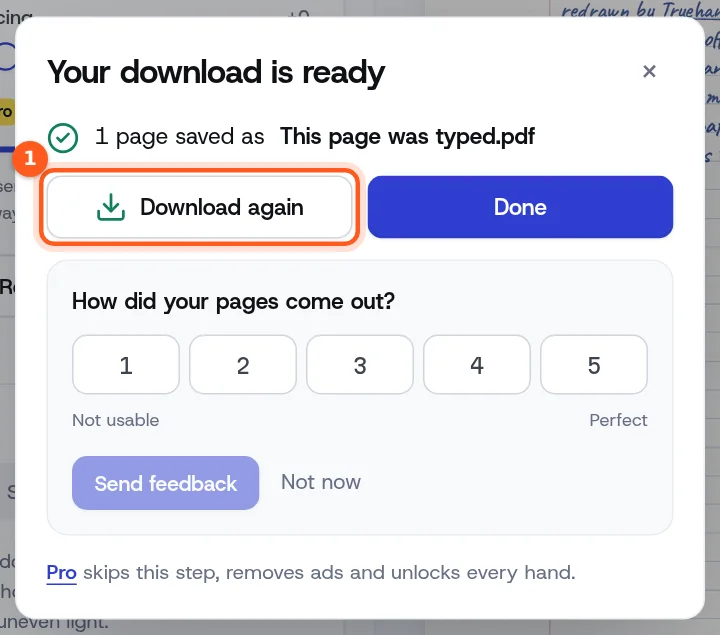
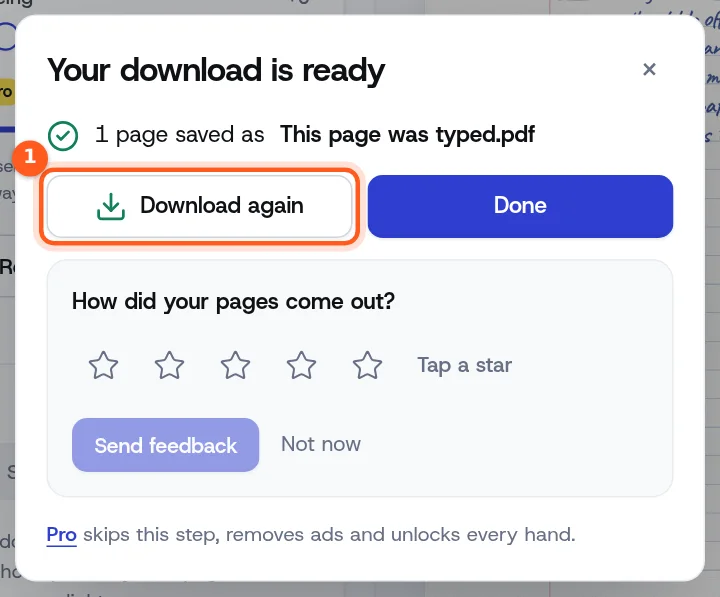
Rate with stars instead of numbered boxes
- Feedback asks for 1–5 stars; hovering fills them and names the rating
  (Not usable, Poor, Okay, Good, Perfect), and arrow keys work too
- Guide feedback uses its own words (Not at all … A lot)
- The admin page shows ratings with a star
- Retook the download screenshot used in the guides

diff --git a/apps/web/src/components/FeedbackForm.tsx b/apps/web/src/components/FeedbackForm.tsx
@@ -1,5 +1,5 @@
 "use client";
-import { CheckCircle2 } from "lucide-react";
+import { CheckCircle2, Star } from "lucide-react";
 import { useId, useState } from "react";
 import { Button } from "@/components/ui/Button";
 import s from "./FeedbackForm.module.css";
@@ -47,17 +47,19 @@ const SCALE = [1, 2, 3, 4, 5] as const;
 export function FeedbackForm({
   context,
   title = "How did your pages come out?",
-  ends = ["Not usable", "Perfect"],
+  labels = ["Not usable", "Poor", "Okay", "Good", "Perfect"],
   onSkip,
 }: {
   context: FeedbackContext;
   title?: string;
-  /** Labels under the lowest and highest rating. */
-  ends?: [string, string];
+  /** What each number of stars means, from one to five. */
+  labels?: [string, string, string, string, string];
   onSkip?: () => void;
 }) {
   const id = useId();
   const [rating, setRating] = useState<number | null>(null);
+  const [hover, setHover] = useState<number | null>(null);
+  const shown = hover ?? rating;
   const [message, setMessage] = useState("");
   const [email, setEmail] = useState("");
   const [state, setState] = useState<"idle" | "sending" | "sent" | "error">("idle");
@@ -98,17 +100,23 @@ export function FeedbackForm({
     >
       <fieldset className={s.rating}>
         <legend>{title}</legend>
-        <div className={s.scale}>
+        <div className={s.stars} onMouseLeave={() => setHover(null)}>
           {SCALE.map((n) => (
-            <label key={n} className={s.point}>
-              <input type="radio" name={`${id}-rating`} value={n} checked={rating === n} onChange={() => setRating(n)} />
-              <span>{n}</span>
+            <label key={n} className={s.star} data-on={shown !== null && n <= shown ? "" : undefined} onMouseEnter={() => setHover(n)}>
+              <input
+                type="radio"
+                name={`${id}-rating`}
+                value={n}
+                checked={rating === n}
+                onChange={() => setRating(n)}
+                aria-label={`${n} ${n === 1 ? "star" : "stars"}, ${labels[n - 1]}`}
+              />
+              <Star aria-hidden="true" />
             </label>
           ))}
-        </div>
-        <div className={s.ends} aria-hidden="true">
-          <span>{ends[0]}</span>
-          <span>{ends[1]}</span>
+          <span className={s.meaning} aria-hidden="true">
+            {shown !== null ? labels[shown - 1] : "Tap a star"}
+          </span>
         </div>
       </fieldset>
 

diff --git a/apps/web/src/components/FeedbackForm.module.css b/apps/web/src/components/FeedbackForm.module.css
@@ -23,58 +23,60 @@
   font-weight: 650;
 }
 
-.scale {
-  display: grid;
-  grid-template-columns: repeat(5, minmax(0, 1fr));
-  gap: 6px;
+.stars {
+  display: flex;
+  align-items: center;
+  gap: 2px;
 }
 
-.point {
+.star {
   position: relative;
+  display: grid;
+  place-items: center;
+  width: 42px;
+  height: 42px;
+  border-radius: 10px;
+  cursor: pointer;
 }
 
-.point input {
+.star input {
   position: absolute;
   inset: 0;
+  margin: 0;
   opacity: 0;
   cursor: pointer;
 }
 
-.point span {
-  display: grid;
-  place-items: center;
-  height: 40px;
-  border: 1px solid var(--rule-strong);
-  border-radius: var(--radius);
-  background: var(--bg);
-  font-family: var(--font-mono);
-  font-size: 14px;
-  color: var(--ink-2);
+.star svg {
+  width: 32px;
+  height: 32px;
+  fill: transparent;
+  stroke: var(--ink-3);
+  stroke-width: 1.5;
   transition:
-    background 120ms var(--ease),
-    border-color 120ms var(--ease),
-    color 120ms var(--ease);
+    fill 100ms var(--ease),
+    stroke 100ms var(--ease),
+    transform 100ms var(--ease);
 }
 
-.point:hover span {
-  border-color: var(--blue);
+.star[data-on] svg {
+  fill: var(--star);
+  stroke: var(--star-edge);
 }
 
-.point input:checked + span {
-  border-color: var(--blue);
-  background: var(--blue);
-  color: #fff;
+.star:hover svg {
+  transform: scale(1.1);
 }
 
-.point input:focus-visible + span {
+.star:has(input:focus-visible) {
   outline: 2px solid var(--blue);
-  outline-offset: 2px;
+  outline-offset: 1px;
 }
 
-.ends {
-  display: flex;
-  justify-content: space-between;
-  font-size: 12px;
+.meaning {
+  margin-left: 10px;
+  font-size: 14px;
+  font-weight: 550;
   color: var(--ink-3);
 }
 

diff --git a/apps/web/src/app/admin/feedback/page.tsx b/apps/web/src/app/admin/feedback/page.tsx
@@ -47,7 +47,7 @@ export default async function FeedbackAdmin() {
           <ol className={s.bars}>
             {[5, 4, 3, 2, 1].map((r) => (
               <li key={r}>
-                <span className={s.barLabel}>{r}</span>
+                <span className={s.barLabel}>{r}★</span>
                 <span className={s.bar}>
                   <span style={{ width: `${((byRating[r] ?? 0) / most) * 100}%` }} />
                 </span>
@@ -89,7 +89,7 @@ export default async function FeedbackAdmin() {
                       <td className={s.nowrap}>{when(f.createdAt)}</td>
                       <td>
                         <span className={s.rating} data-low={f.rating <= 2 || undefined}>
-                          {f.rating}
+                          {f.rating}★
                         </span>
                       </td>
                       <td className={s.message}>{f.message ?? <span className={s.muted}>—</span>}</td>

diff --git a/apps/web/src/app/guides/[slug]/page.tsx b/apps/web/src/app/guides/[slug]/page.tsx
@@ -140,7 +140,11 @@ export default async function GuidePage({ params }: { params: Promise<{ slug: st
           <ButtonLink href={g.cta.href}>{g.cta.label}</ButtonLink>
         </aside>
         <div className={s.feedback}>
-          <FeedbackForm context={{ source: "guide", guide: g.slug }} title="Did this guide help?" ends={["Not really", "A lot"]} />
+          <FeedbackForm
+            context={{ source: "guide", guide: g.slug }}
+            title="Did this guide help?"
+            labels={["Not at all", "Not really", "Somewhat", "Yes", "A lot"]}
+          />
         </div>
         {related.length > 0 && (
           <nav className={s.related} aria-label="Related guides">

diff --git a/apps/web/src/app/admin/feedback/admin.module.css b/apps/web/src/app/admin/feedback/admin.module.css
@@ -47,7 +47,7 @@
 
 .bars li {
   display: grid;
-  grid-template-columns: 16px minmax(0, 1fr) 40px;
+  grid-template-columns: 28px minmax(0, 1fr) 40px;
   align-items: center;
   gap: 10px;
   font-family: var(--font-mono);
@@ -126,7 +126,7 @@
 .rating {
   display: inline-grid;
   place-items: center;
-  width: 28px;
+  width: 38px;
   height: 28px;
   border-radius: 8px;
   background: var(--blue-soft);

diff --git a/apps/web/src/app/globals.css b/apps/web/src/app/globals.css
@@ -21,6 +21,8 @@
   --red: #d92d20;
   --red-soft: #fef3f2;
   --green: #12805c;
+  --star: #fbbf24;
+  --star-edge: #e8a400;
 
   --font-display: var(--font-host), ui-sans-serif, system-ui, sans-serif;
   --font-text: var(--font-host), ui-sans-serif, system-ui, sans-serif;
